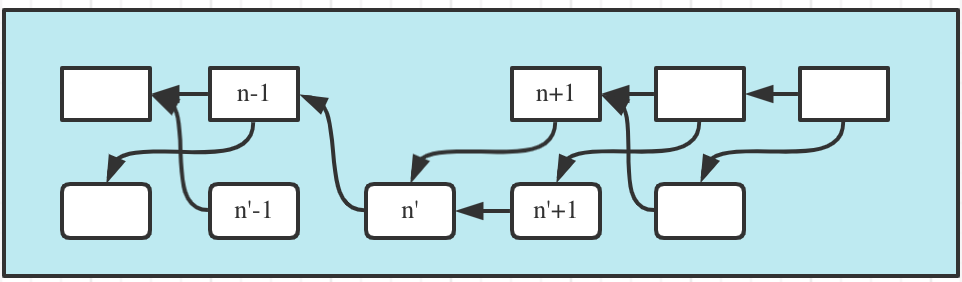
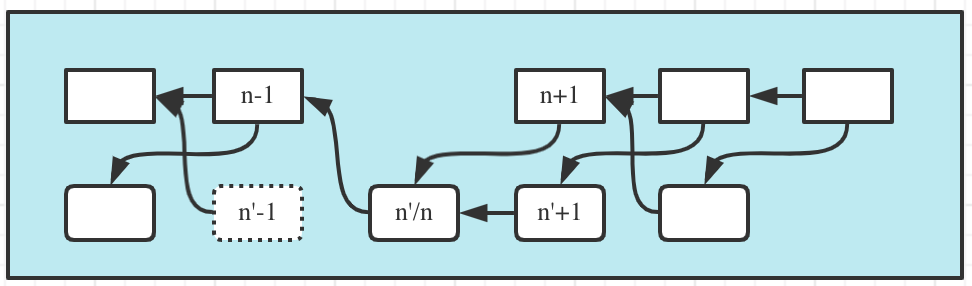
update mainnet fail pic & desc

diff --git a/amax.whitepaper-cn.md b/amax.whitepaper-cn.md
@@ -118,12 +118,13 @@ APOS共识机制的核心框架如下：
 - 另外，Armonia母链的主节点每次出块6块，再轮流到下一个当选出块主节点，但是从节点在每块都有可能变更。通常出块情况如下：
 <img src="./assets/apos-bp-nodes.png" width=800>
 
-- 如果从节点无法按时或者准确出块，那么下一个主块将不能包含上一个时间槽的从块：
+- 如果备节点无法按时或者准确出块，那么下一个主块将不能包含上一个时间槽的从块：
 <img src="./assets/apos_vicenode_fail.png" width=800>
 
-- 如果主节点无法按时或者准确出块，那么下一个主块将直接连接有效的从块作为主块，相应从块节点获得主块的收益：
+- 如果主节点无法按时或者准确出块，那么下一个主块将直接连接有效的备块作为主块，相应备节点获得主块的收益, 但是其中丢失主块包括进来的备块`n'-1`因此而丢失, 无法获得收益：
 <img src="./assets/apos_mainnode_fail.png" width=800>
 
+- 如果主节点无法出块，
 一主一备的双链架构下可以支持到10021个节点参与共同挖矿，维护网络健壮性和安全性，同时获得相应收益。为了进一步增加参与节点的数量，可以把一主一备双链变成一主双备甚至一主三备份这样的多链模型。每增加一条备链可以增加10000个备链挖矿节点。虽然单个备节点获得挖矿的数量少了，但是因为大大提升了网络的安全性，增强了社群的参与度和社群共识，随着币值相应上涨，单个备节点的收益反而可以保持或者进一步上涨。通过这种模型可以来激励更多的社群参与者来挖矿和建设整体网络。至于备份子链的冗余个数可以由Aarmonia的`DAO`组织来管理和决定。
 
 Armonia母链多节点挖矿下的主备子链的多种扩展场景如下：
